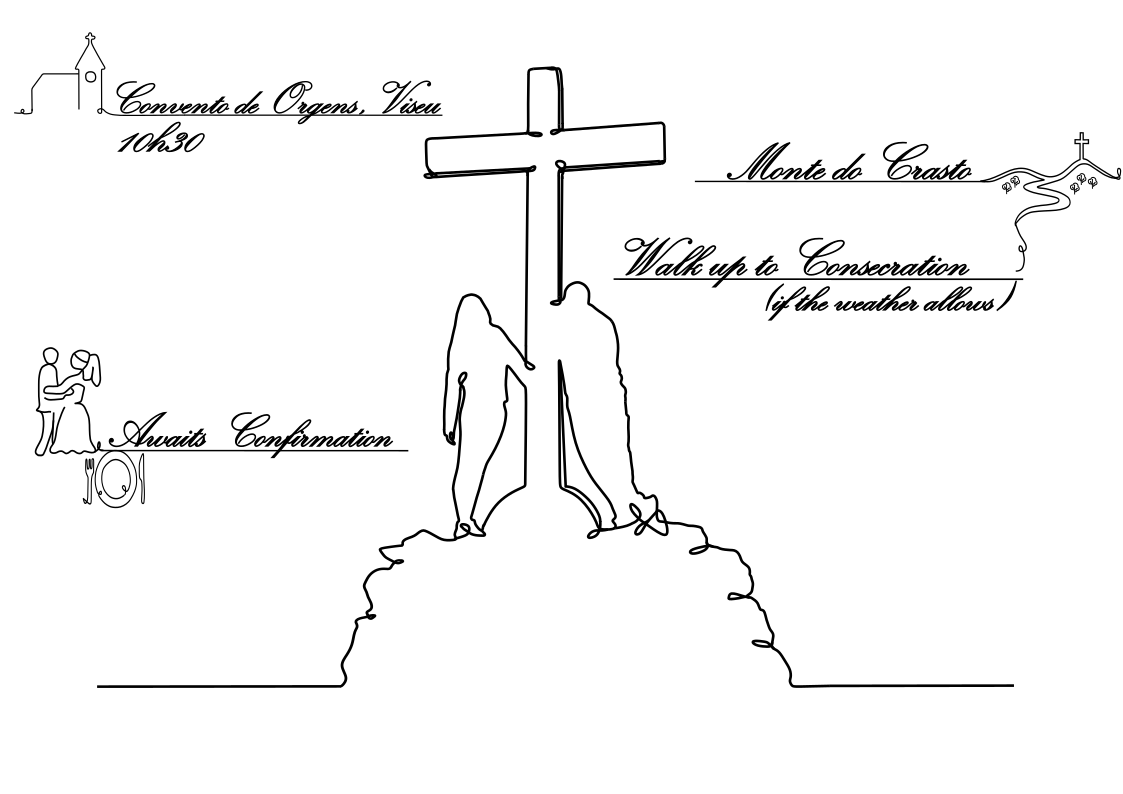
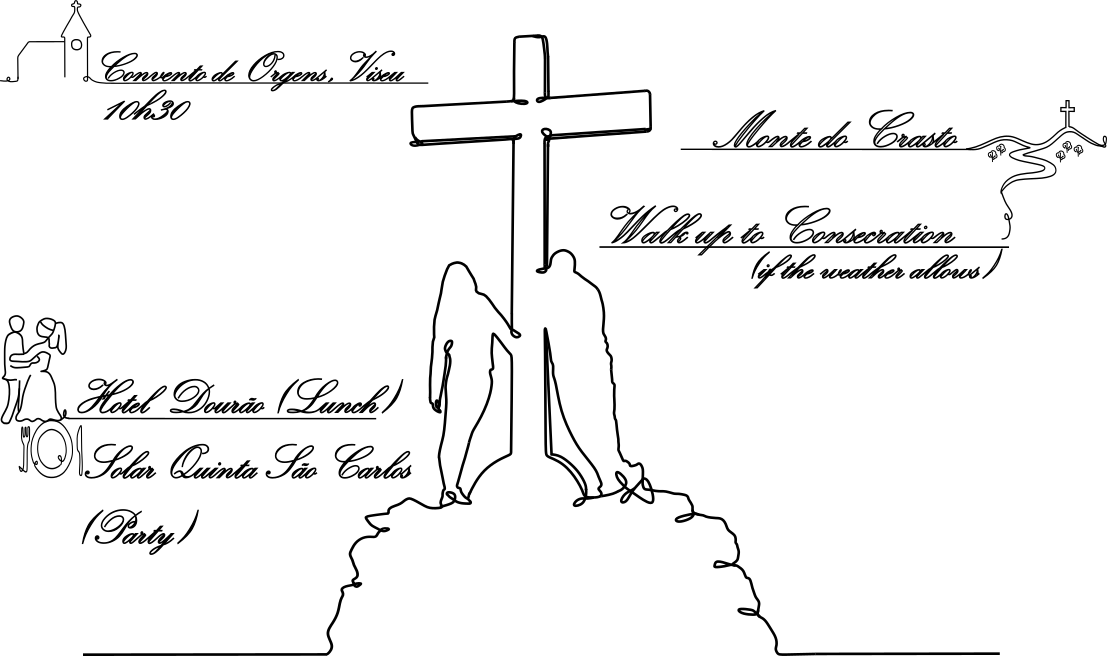
revisao2

diff --git a/pt/index.html b/pt/index.html
@@ -34,19 +34,24 @@
 					</section> -->
 					<h1 id="countdown" style="text-align:center; padding:5%"></h1>
 
-					<img src="../images/desenho_fluxograma_pt.png" width="50%" class="centered-image" alt="" />
+					<img src="../images/FluxogramaPT2.png" width="50%" class="centered-image" alt="" />
 					<!-- <img src="images/shedule_EN.jpg" width="50%" style="display:block; margin-left:auto; margin-right:auto" alt="" /> -->
 
 				
+
 				<!-- Convento -->
 				<section class="spotlight style1 orient-left content-align-left image-position-center onscroll-image-fade-in">
 					<div class="content">
 						<h2>Local da cerimónia</h2>
-						<p>O casamento vai acontecer no convento de São Francisco do Monte na freguesia de Orgens em Viseu.
-							Este convento foi construído em 1410 pela ordem fransiscana e muita história se desenvolveu até aos dias de hoje. Agora será a nossa vez de fazer história. 
-						<p>A missa vai ser celebrada em português com uma leitura em inglês e terão sempre um guião com todas as traduções e as músicas para acompanhar a cerimónia.</p>  
-						</p> Fica a cerca de 5 minutos de carro de Viseu (centro) e tem um parque de estacionamento na lateral do edifício dedicado exclusivamente à igreja. 
-						<p>   
+						<p> O casamento vai acontecer no convento de São Francisco do Monte na freguesia de Orgens em Viseu.Este convento foi construído em 1410 pela ordem fransiscana e muita história se desenvolveu até aos dias de hoje. Agora será a nossa vez de fazer história.
+							
+						</p>  
+					  
+						<p>   A missa vai ser celebrada em português com uma leitura em inglês e terão sempre um guião com todas as traduções e as músicas para acompanhar a cerimónia.
+						</p>
+
+						<p> Fica a cerca de 5 minutos de carro de Viseu (centro) e tem um parque de estacionamento na lateral do edifício dedicado exclusivamente à igreja.
+
 						</p>
 						
 						<!-- <ul class="actions stacked">
@@ -54,9 +59,10 @@
 						</ul> -->
 					</div>
 					<div class="image">
-						<img src="../images/convento_orgens.JPG" alt="" />
+						<img src="../images/cerimonia.png" alt="" />
 					</div>
 				</section>
+
 					
 
 				<!-- Monte crasto -->
@@ -81,16 +87,17 @@
 				</section>
 
 
-				<!-- casa florestal do crasto -->
+				<!-- Quinta solar  -->
 				<section class="spotlight style1 orient-left content-align-left image-position-center onscroll-image-fade-in">
 					<div class="content">
 						<h2>Almoço e festa de casamento</h2>
-						<p> O local escolhido para o copo de água é a casa florestal do monte do Crasto, que tem muito espaço na natureza, uma bela casa rústica de pedra e um campo de futebol para os mais pequenos. 
-							
+						<p> O almoço será servido no hotel Durão a 400mm do solar Quinta São Carlos onde será realizada a festa.
+							 
+						
 							
 						</p>  
 
-						<p>Sempre em ambiente de muita festa e alegria vamos ter um buffet de vários pratos típicos portugueses, bebida e muito tempo para convívios, dança e música.</p>
+						<p>Sempre em ambiente de muita festa e alegria vai haver bebida, doces saborosos, enchidos e queijos da região e muito tempo para convívios, dança e música. No final do dia será servido um lanche ajantarado.</p>
 					  
 						<h6>Caso alguém tenha alguma restrição alimentar, por favor contacte-nos para podemos incluir esse aspeto no menu da festa. </h6>
 						
@@ -99,7 +106,7 @@
 						</ul> -->
 					</div>
 					<div class="image">
-						<img src="../images/casa_castro.jpg" alt="" />
+						<img src="../images/casa_solar.jpg" alt="" />
 					</div>
 				</section>
 
@@ -128,11 +135,18 @@
 									<p>Momento da consagração</p>
 								</section>
 								<section>
-									<a href="https://maps.app.goo.gl/4LVzpgm6w9tzr9vQ7" target="_blank">
+									<a href="https://maps.app.goo.gl/DFYzNepLSeLKpZ8f6" target="_blank">
 										<img src="../images/imagem noivos_festa.png" width="20%" class="location-icon"></img>
-									<h3>Casa florestal do Crasto</h3>
+									<h3>Restaurante Hotel Durão</h3>
 									</a>
-									<p>Convívios, refeições e festa</p>
+									<p>Almoço</p>
+								</section>
+								<section>
+									<a href="https://maps.app.goo.gl/r65Pd3H6f8u69qEb6" target="_blank">
+										<img src="../images/imagem noivos_festa.png" width="20%" class="location-icon"></img>
+									<h3>Solar da Quinta de São Carlos</h3>
+									</a>
+									<p>Convívios, Lanche e festa</p>
 								</section>
 							</div>
 						</div>
@@ -145,8 +159,9 @@
 		<p>Para quem vem de longe e está à procura de lugar para ficar.
 			Em Viseu podem encontrar muitos hotéis e alojamentos locais de várias qualidades e preços distintos.
 			Qualquer lugar na zona urbana de Viseu se encontra perto do local da cerimónia e da festa, se tiver veículo próprio.
+			No entanto o Hotel Durão, onde será realizado o almoço, é o local mais proximo da cerimonia e da festa. 
 			Sugerimos 5 dos hotéis de diferentes gamas em Viseu apenas pela maior proximidade ao local.
-			Também indicamos duas pousadas em Viseu. Uma pousada de luxo e uma pousada da juventuda, com preços mais acessíveis para os jovens (aproximadamente 16€ por noite). 							</p>
+			Também indicamos duas pousadas em Viseu. Uma pousada de luxo e uma pousada da juventuda, com preços mais acessíveis para os jovens (Desde 16€ por noite). 							</p>
 		
 
 		<table border="1">
@@ -157,34 +172,35 @@
 				<th>Distância: Hotel - Festa</th>
 			</tr>
 			<tr>
+				<td><a href="https://www.hoteldurao.com/" target="_blank">Hotel Durão</a></td>
+				<th>★★★</th>
+				<td> <b>4 min</b></td>
+				<td> <b>0 min</b> </td>
+			</tr>
+			<tr>
 				<td><a href="https://montebelohotels.com/montebelo-viseu-congress-hotel/pt/home" target="_blank">Hotel Montebelo-Viseu</a></td>
 				<th>★★★★★</th>
-				<td>6 mim</td>
-				<td>12 mim</td>
+				<td>6 min</td>
+				<td>7 min</td>
 			</tr>
 			<tr>
 				<td><a href="https://hotelgraovasco.pt/" target="_blank">Hotel Grão Vasco</a></td>
 				<th>★★★★</th>
-				<td> 8 mim</td>
-				<td> 12 mim</td>
+				<td> 8 min</td>
+				<td> 8 min</td>
 			</tr>
 			<tr>
 				<td><a href="https://www.instagram.com/viseuexecutivehotel/" target="_blank"> Viseu executive hotel</a></td>
 				<th>★★★★</th>
-				<td> 7 mim</td>
-				<td> 11 mim</td>
+				<td> 7 min</td>
+				<td> 7 min</td>
 			</tr>
-			<tr>
-				<td><a href="https://www.hoteldurao.com/" target="_blank">Hotel Durão</a></td>
-				<th>★★★</th>
-				<td> 4 mim</td>
-				<td> 7 mim</td>
-			</tr>
+
 			<tr>
 				<td><a href="https://viseugardenhotel.com/" target="_blank">Hotel viseu Garden</a></td>
 				<th>★★★</th>
-				<td> 6 mim</td>
-				<td> 6 mim</td>
+				<td> 6 min</td>
+				<td> 5 min</td>
 			</tr>
 			<tr>
 				<td> <b> Pousadas <b> </td>
@@ -195,14 +211,14 @@
 			<tr>
 				<td><a href="https://www.pousadas.pt/pt/hotel/pousada-viseu" target="_blank">Pestana-Pousadas Viseu </a></td>
 				<th>★★★★</th>
-				<td> 9 mim</td>
-				<td> 12 mim</td>
+				<td> 9 min</td>
+				<td> 9 min</td>
 			</tr>
 			<tr>
 				<td><a href="https://www.pousadasjuventude.pt/pt/pousadas/pousada-de-viseu/" target="_blank">Pousada de Juventude Viseu</a></td>
 				<th> JOVENS </th>
-				<td> 8 mim</td>
-				<td> 11 mim</td>
+				<td> 8 min</td>
+				<td> 6 min</td>
 			</tr>
 
 		</table>
@@ -231,6 +247,71 @@
 					<div class="image">
 						<img src="../images/dress code.jpg" alt="" />
 					</div>
+				</section>
+
+
+				<!-- Fotos -->
+				<section class="wrapper style1 align-center">
+					<div class="inner">
+						<h2>Fotografias do evento</h2>
+						<p>Aqui estão algumas fotografias do nosso caminho desde que nos conhecemos ate ao noivado.
+							clica para ver mais fotos.
+						 </p>
+						<p>Depois do casamento vão ser disponizadas as fotos neste mesmo link./p>
+					</div>
+
+					<!-- Gallery -->
+						<div class="gallery style2 medium lightbox onscroll-fade-in">
+							<article>
+								<a href="https://photos.app.goo.gl/9uAev3WVKeA82bM46" class="image" target="_blank">
+									<img src="../images/foto1.jpg" alt="" />
+								</a>
+								<div class="caption">
+									<h3>Quando nos apaixonamos... </h3>
+									<!-- <p>Lorem ipsum dolor amet, consectetur magna etiam elit. Etiam sed ultrices.</p> -->
+									<ul class="actions fixed">
+										<li><span class="button small">More photos</span></li>
+									</ul>
+								</div>
+							</article>
+							<article>
+								<a href="https://photos.app.goo.gl/9uAev3WVKeA82bM46" class="image" target="_blank">
+									<img src="../images/foto2.jpg" alt="" />
+								</a>
+								<div class="caption">
+									<h3>Sempre em aventura... </h3>
+									<!-- <p>Lorem ipsum dolor amet, consectetur magna etiam elit. Etiam sed ultrices.</p> -->
+									<ul class="actions fixed">
+										<li><span class="button small">More photos</span></li>
+									</ul>
+								</div>
+							</article>
+							<article>
+								<a href="https://photos.app.goo.gl/9uAev3WVKeA82bM46" class="image" target="_blank">
+									<img src="../images/foto4.jpg" alt="" />
+								</a>
+								<div class="caption">
+									<h3>A fé sempre no centro de nós... </h3>
+									<p>Tramore beach</p>
+									<ul class="actions fixed">
+										<li><span class="button small">More photos</span></li>
+									</ul>
+								</div>
+							</article>
+							<article>
+								<a href="https://photos.app.goo.gl/9uAev3WVKeA82bM46" class="image" target="_blank">
+									<img src="../images/foto3.jpg" alt="" />
+								</a>
+								<div class="caption">
+									<h3>No caminho do noivado ... </h3>
+									<p>How the Power family reacted to the engagement news.</p>
+									<ul class="actions fixed">
+										<li><span class="button small">More photos</span></li>
+									</ul>
+								</div>
+							</article>
+						</div>
+
 				</section>
 
 			<!-- contacts -->
